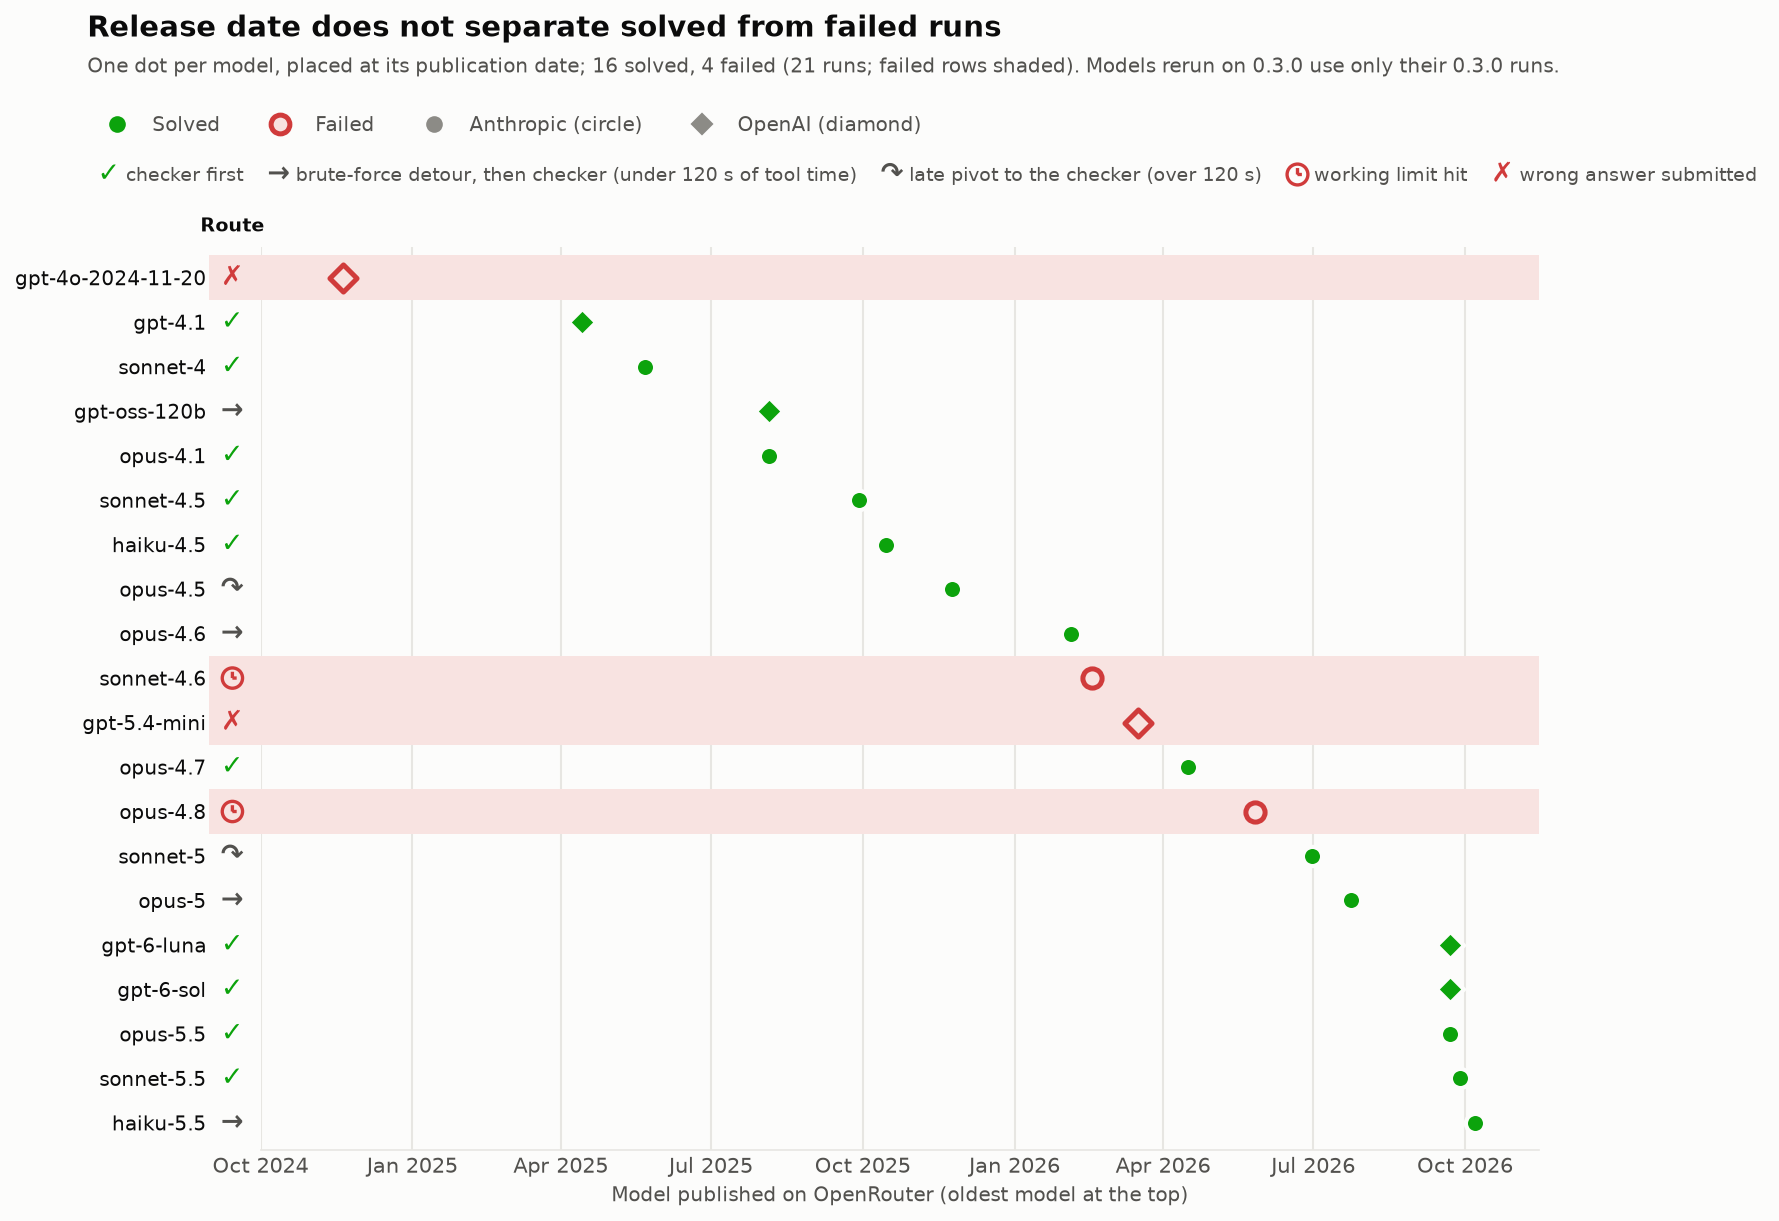
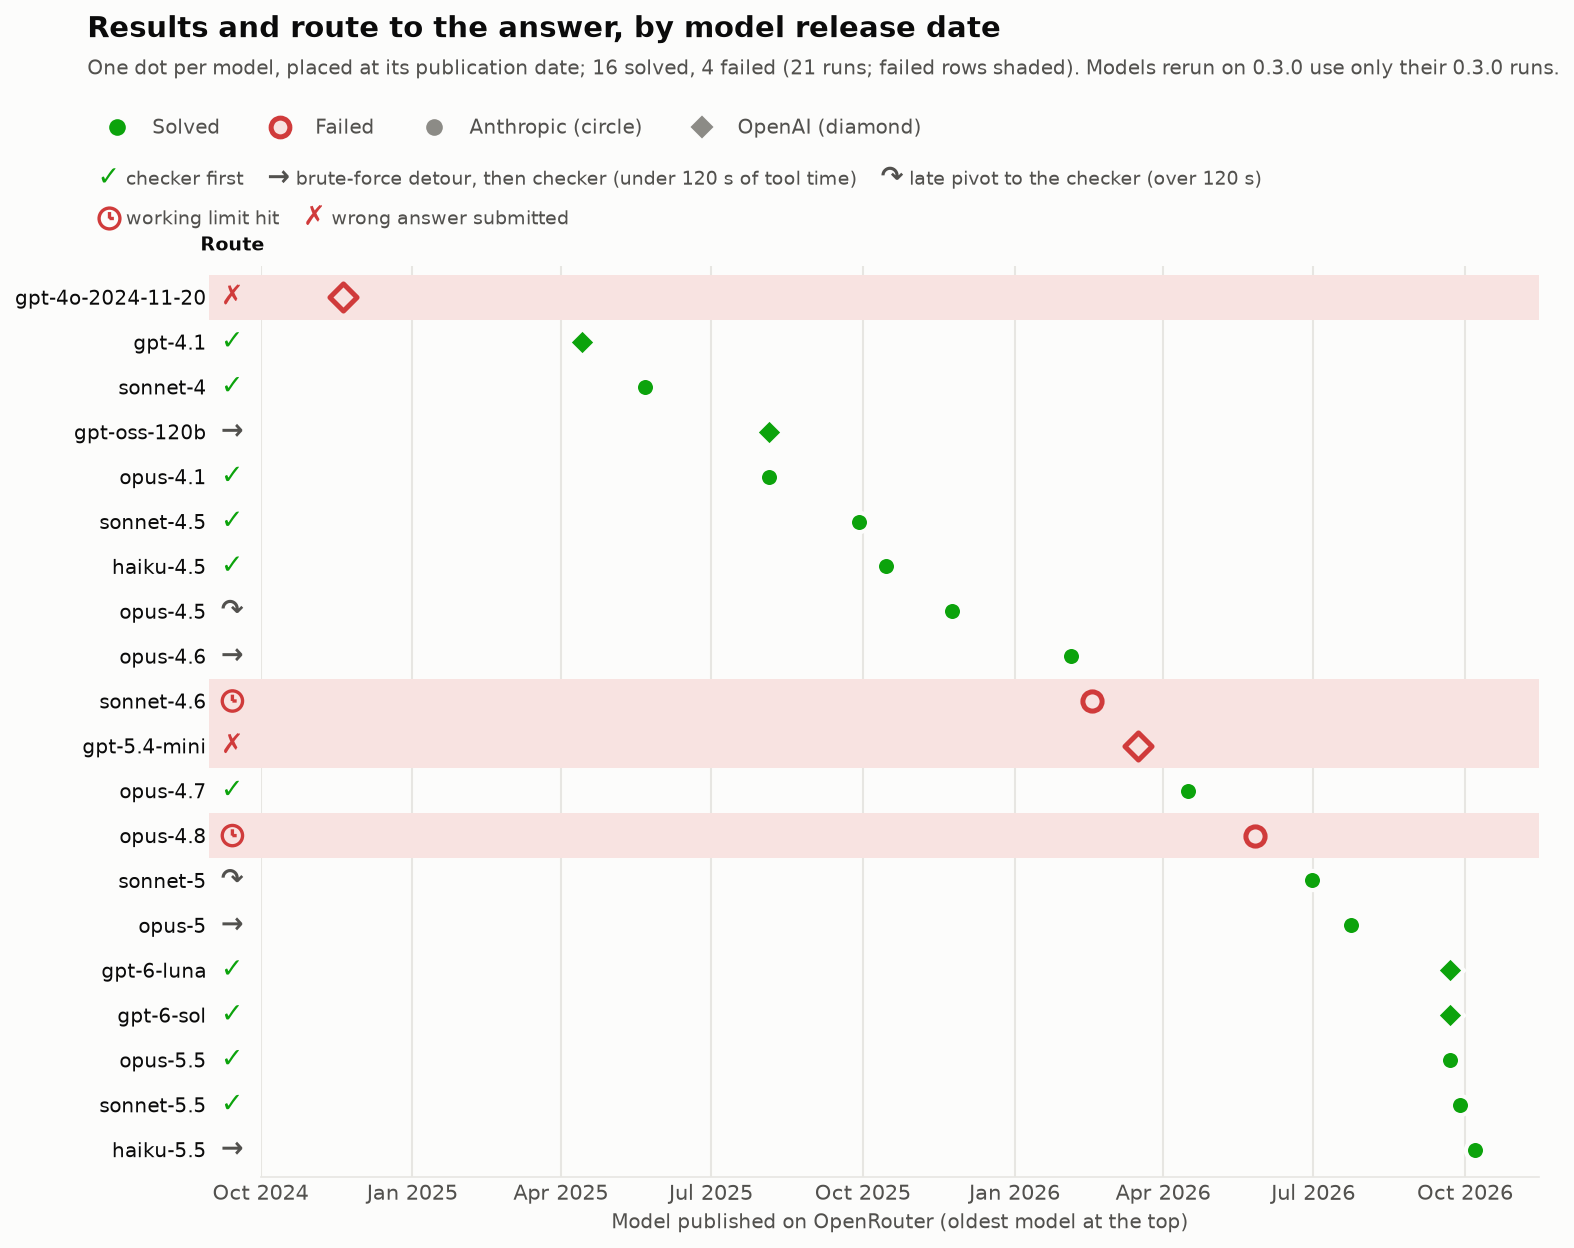
fig

diff --git a/docs/figures/make_figures.py b/docs/figures/make_figures.py
@@ -345,7 +345,7 @@ def route_markdown(runs: pd.DataFrame, order: list, n_runs: int) -> str:
 def fig_release_timeline_combined(df: pd.DataFrame, bare: bool = False):
     """Solved and failed runs in one panel, 0.3.0 runs only: first-sweep (0.2.0) runs of models rerun on 0.3.0 are dropped.
 
-    bare=True leaves out the title, subtitle and route key; the solved/failed/provider key stays on top.
+    bare=True leaves out the title and subtitle; the solved/failed/provider key stays on top and the route key follows it. Both layouts show the route key in two lines above the axes.
     The normal version also writes the Markdown table."""
     import matplotlib.dates as mdates
     FAIL_BG = "#f8e3e1"  # light tint of CRIT
@@ -367,7 +367,7 @@ def fig_release_timeline_combined(df: pd.DataFrame, bare: bool = False):
     if not bare:
         with open(f"{OUT}/fig4_release_timeline_0.3.0_only.md", "w") as fh:
             fh.write(route_markdown(runs, order, n_runs))
-    fig, ax = plt.subplots(figsize=(11, 0.3 * len(order) + (1.6 if bare else 2.6)), facecolor=SURFACE)
+    fig, ax = plt.subplots(figsize=(11, 0.3 * len(order) + (1.6 if bare else 2.8)), facecolor=SURFACE)
     style(ax)
     marker = {"anthropic": "o", "openai": "D"}
     for i, m in enumerate(order):
@@ -400,7 +400,7 @@ def fig_release_timeline_combined(df: pd.DataFrame, bare: bool = False):
     ax.set_xlim(pd.Timestamp("2024-10-01"), pd.Timestamp("2026-11-15"))
     ax.set_xlabel("Model published on OpenRouter (oldest model at the top)", color=INK2, fontsize=9.5)
     if not bare:
-        fig.suptitle("Release date does not separate solved from failed runs", x=0.02, y=0.99, ha="left", fontsize=14,
+        fig.suptitle("Results and route to the answer, by model release date", x=0.02, y=0.99, ha="left", fontsize=14,
                      fontweight="semibold", color=INK)
         fig.text(0.02, 0.945, f"One dot per model, placed at its publication date; {int(df.solved.sum())} solved, "
                  f"{int((~df.solved).sum())} failed ({n_runs} runs; failed rows shaded). Models rerun on 0.3.0 use only their 0.3.0 runs.", color=INK2, fontsize=9.5, ha="left")
@@ -413,16 +413,20 @@ def fig_release_timeline_combined(df: pd.DataFrame, bare: bool = False):
             (Glyph("→", INK2), f"brute-force detour, then checker (under {DETOUR_MAX_S} s of tool time)"),
             (Glyph("↷", INK2), f"late pivot to the checker (over {DETOUR_MAX_S} s)"),
             (Glyph("⏱", CRIT), "working limit hit"), (Glyph("✗", CRIT), "wrong answer submitted")]
-    # bare: only the solved/failed/provider key, directly above the Route header; the route key is left out
-    where1 = (dict(bbox_to_anchor=(-0.17, 1.055), bbox_transform=ax.transAxes, loc="lower left") if bare
+    # bare: the solved/failed/provider key sits directly above the Route header
+    where1 = (dict(bbox_to_anchor=(-0.17, 1.15), bbox_transform=ax.transAxes, loc="lower left") if bare
               else dict(bbox_to_anchor=(0.015, 0.925), loc="upper left"))
     fig.legend(h, ["Solved", "Failed", "Anthropic (circle)", "OpenAI (diamond)"], ncol=4, frameon=False,
                fontsize=9.5, labelcolor=INK2, **where1)
-    if not bare:
-        fig.legend([k for k, _ in keys], [t for _, t in keys], handler_map={Glyph: GlyphHandler()}, loc="upper left", ncol=5,
-                   frameon=False, fontsize=9, labelcolor=INK2, columnspacing=1.2, handletextpad=0.2, handlelength=1.4,
-                   bbox_to_anchor=(0.015, 0.885))
-    fig.subplots_adjust(top=0.95 if bare else 0.81)
+    # route key in two lines above the axes in both layouts (in the bare figure it sits between the solved/failed key and the Route header),
+    # each line a separate one-row legend so the entries read left to right
+    anchors = ([(-0.17, 1.10), (-0.17, 1.055)] if bare else [(0.015, 0.885), (0.015, 0.855)])
+    for line, anchor in zip((keys[:3], keys[3:]), anchors):
+        kw = dict(bbox_transform=ax.transAxes) if bare else {}
+        fig.legend([k for k, _ in line], [t for _, t in line], handler_map={Glyph: GlyphHandler()}, loc="lower left" if bare else "upper left",
+                   bbox_to_anchor=anchor, ncol=len(line), frameon=False, fontsize=9, labelcolor=INK2, columnspacing=1.2,
+                   handletextpad=0.2, handlelength=1.4, **kw)
+    fig.subplots_adjust(top=0.95 if bare else 0.80)
     suffix = "_bare" if bare else ""
     fig.savefig(f"{OUT}/fig4_release_timeline_0.3.0_only{suffix}.png", dpi=150, facecolor=SURFACE, bbox_inches="tight")
     plt.close(fig)

diff --git a/docs/figures/fig4_release_timeline_0.3.0_only.md b/docs/figures/fig4_release_timeline_0.3.0_only.md
@@ -30,5 +30,5 @@ Generated by `make_figures.py`; the figure is `fig4_release_timeline_0.3.0_only.
 | ✓ | checker first | the checker said "correct answer" after 10 s or less of tool time |
 | → | brute-force detour, then checker | after more than 10 s and up to 120 s |
 | ↷ | late pivot to the checker | after more than 120 s, about one tool timeout |
-| clock | working limit hit | the run failed and was ended by the 600 s working limit |
+| ⏱ | working limit hit | the run failed and was ended by the 600 s working limit |
 | ✗ | wrong answer submitted | the run failed by submitting |

diff --git a/README.md b/README.md
@@ -57,7 +57,7 @@ In contrast to the task description the agent receives, runs are awarded either 
 
 Since 2025, models are mostly able to solve the task. (Smaller) Anthropic models seem to struggle more, to the extent the data allows an analysis:
 
-![](docs/figures/fig4_release_timeline_0.3.0_only.png)
+![](docs/figures/fig4_release_timeline_0.3.0_only_bare.png)
 
 ([Markdown version of graph](docs/figures/fig4_release_timeline_0.3.0_only.md))
 
